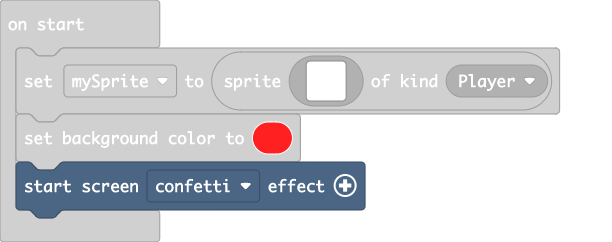
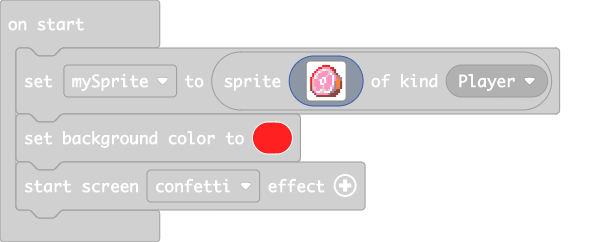
Update main.blocks, main.ts

Changed region(s): [[0.0, 0.6653, 0.6209, 0.9256], [0.4657, 0.2025, 0.6209, 0.4628]]

diff --git a/main.ts b/main.ts
@@ -1,20 +1,20 @@
 let mySprite = sprites.create(img`
-    . . . . . . . . . . . . . . . . 
-    . . . . . . . . . . . . . . . . 
-    . . . . . . . . . . . . . . . . 
-    . . . . . . . . . . . . . . . . 
-    . . . . . . . . . . . . . . . . 
-    . . . . . . . . . . . . . . . . 
-    . . . . . . . . . . . . . . . . 
-    . . . . . . . . . . . . . . . . 
-    . . . . . . . . . . . . . . . . 
-    . . . . . . . . . . . . . . . . 
-    . . . . . . . . . . . . . . . . 
-    . . . . . . . . . . . . . . . . 
-    . . . . . . . . . . . . . . . . 
-    . . . . . . . . . . . . . . . . 
-    . . . . . . . . . . . . . . . . 
-    . . . . . . . . . . . . . . . . 
+    . . . . . . 2 2 2 2 . . . . . . 
+    . . . . 2 2 3 3 3 3 2 e . . . . 
+    . . . 2 3 d 1 1 d d 3 2 e . . . 
+    . . 2 3 1 d 3 3 3 d d 3 e . . . 
+    . 2 3 1 3 3 3 3 3 d 1 3 b e . . 
+    . 2 1 d 3 3 3 3 d 3 3 1 3 b b . 
+    2 3 1 d 3 3 1 1 3 3 3 1 3 4 b b 
+    2 d 3 3 d 1 3 1 3 3 3 1 3 4 4 b 
+    2 d 3 3 3 1 3 1 3 3 3 1 b 4 4 e 
+    2 d 3 3 3 1 1 3 3 3 3 1 b 4 4 e 
+    e d 3 3 3 3 d 3 3 3 d d b 4 4 e 
+    e d d 3 3 3 d 3 3 3 1 3 b 4 b e 
+    e 3 d 3 3 1 d d 3 d 1 b b e e . 
+    . e 3 1 1 d d 1 1 1 b b e e e . 
+    . . e 3 3 3 3 3 3 b e e e e . . 
+    . . . e e e e e e e e e e . . . 
     `, SpriteKind.Player)
 scene.setBackgroundColor(2)
 effects.confetti.startScreenEffect()
